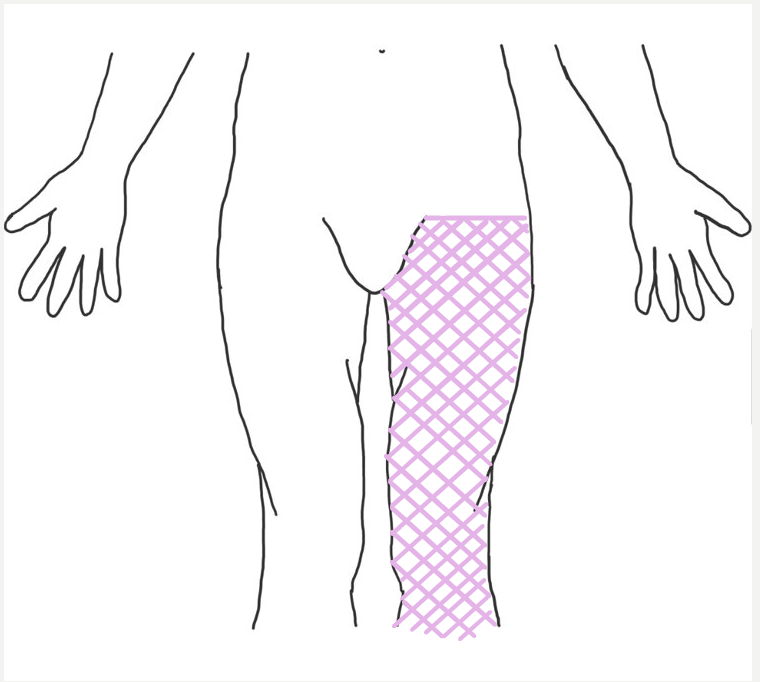
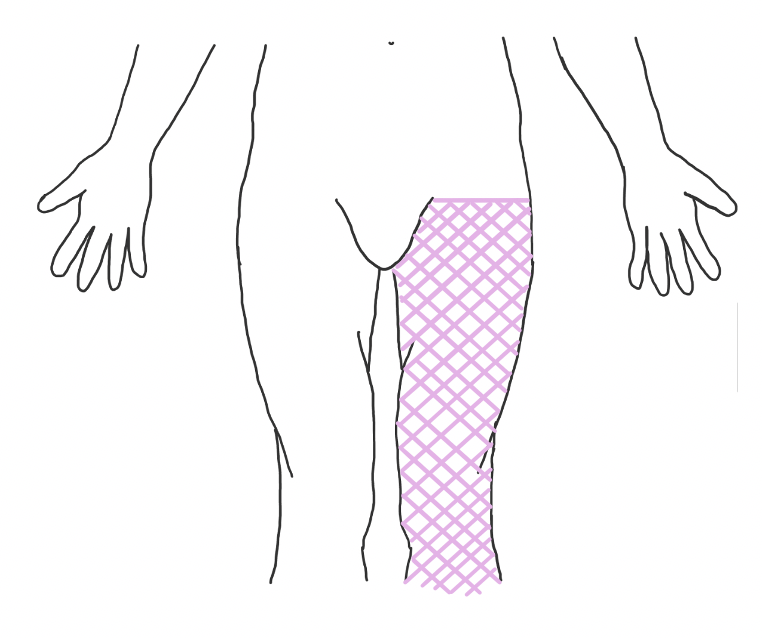
updated front views

diff --git a/src/screens/BodyPartScreen.js b/src/screens/BodyPartScreen.js
@@ -6,15 +6,15 @@ const checkFrontSwitch = (bodyPart) => {
         case 'Head or Neck':
             return (<Image style={styles.closeUp} source={require('../../assets/Front/CloseHead.png')}/>)
         case 'Torso':
-            return (<Image style={styles.closeUp} source={require('../../assets/Front/CloseFront.png')}/>)
+            return (<Image style={styles.closeUp} source={require('../../assets/Front/CloseTorso2.png')}/>)
         case 'Left Upper Arm':
-            return (<Image style={styles.closeUp} source={require('../../assets/Front/CloseLeftUA.png')}/>)
+            return (<Image style={styles.closeUp} source={require('../../assets/Front/CloseLeftUA2.png')}/>)
         case 'Right Upper Arm':
-            return (<Image style={styles.closeUp} source={require('../../assets/Front/CloseRightUA.png')}/>)
+            return (<Image style={styles.closeUp} source={require('../../assets/Front/CloseRightUA2.png')}/>)
         case 'Left Lower Arm':
-            return (<Image style={styles.closeUp} source={require('../../assets/Front/CloseLeftLA.png')}/>)
+            return (<Image style={styles.closeUp} source={require('../../assets/Front/CloseLeftLA2.png')}/>)
         case 'Right Lower Arm':
-            return (<Image style={styles.closeUp} source={require('../../assets/Front/CloseRightLA.png')}/>)
+            return (<Image style={styles.closeUp} source={require('../../assets/Front/CloseRightLA2.png')}/>)
         case 'Volar Left Hand':
             return (<Image style={styles.closeUp} source={require('../../assets/Front/LeftHand.png')}/>)
         case 'Volar Right Hand':
@@ -24,9 +24,9 @@ const checkFrontSwitch = (bodyPart) => {
         case 'Right Upper Leg':
             return (<Image style={styles.closeUp} source={require('../../assets/Front/RightUL2.png')}/>)
         case 'Left Lower Leg':
-            return (<Image style={styles.closeUp} source={require('../../assets/Front/CloseLeftLL.png')}/>)
+            return (<Image style={styles.closeUp} source={require('../../assets/Front/CloseLeftLL2.png')}/>)
         case 'Right Lower Leg':
-            return (<Image style={styles.closeUp} source={require('../../assets/Front/CloseRightLL.png')}/>)
+            return (<Image style={styles.closeUp} source={require('../../assets/Front/CloseRightLL2.png')}/>)
         case 'Dorsum Left Foot':
             return (<Image style={styles.closeUp} source={require('../../assets/Front/CloseLeftFoot.png')}/>)
         case 'Dorsum Right Foot':
